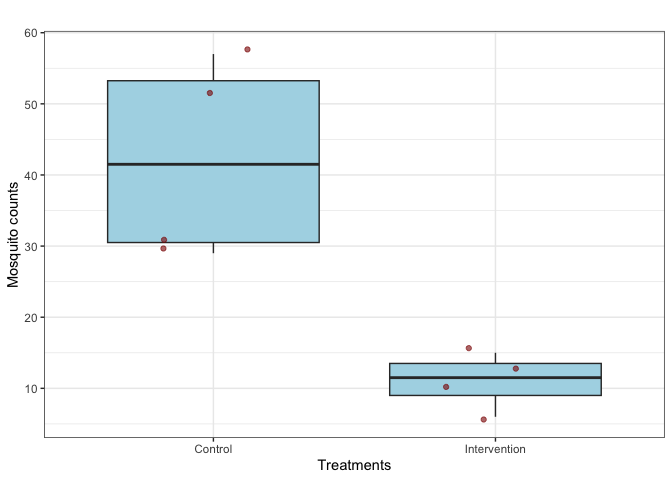
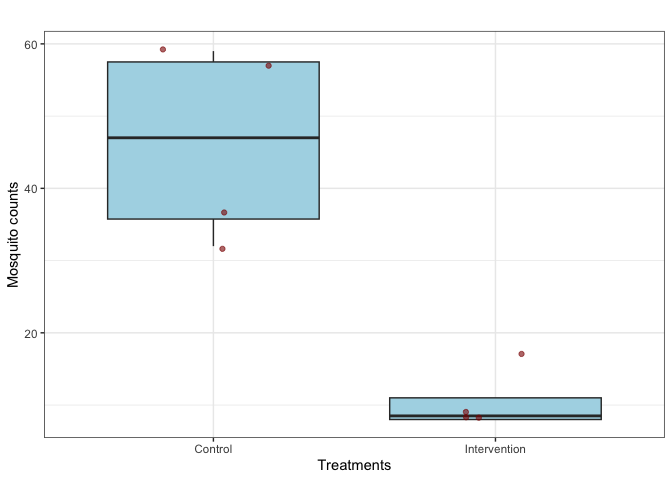
I have updated README file

diff --git a/README.md b/README.md
@@ -31,7 +31,7 @@ from [GitHub](https://github.com/) with:
 # # First, install.packages("devtools") if not already installed in your RStudio.
 
 # -------------------------------
-# Setup: install/load required packages
+# Setup: install or load required packages
 # -------------------------------
 
 # List all CRAN packages your Rmd needs
@@ -54,7 +54,7 @@ if (!requireNamespace("powergene", quietly = TRUE)) {
   devtools::install_github("akipingu/powergene")
 }
 
-# Load 'powergene'
+# Load 'powergene' package
 library(powergene)
 ```
 
@@ -141,14 +141,14 @@ sim.mosquitoes <- sim.mosq.shortsfe.sinint(
 sim.mosquitoes <- sim.mosquitoes[, c(-4,-5,-6)]
 sim.mosquitoes
 #>   replicates intvn chamber mosquito.count.fixed mosquito.count.random
-#> 1          1     0     0-1                   50                    75
-#> 2          2     0     0-2                   41                    35
-#> 3          3     0     0-3                   45                    23
-#> 4          4     0     0-4                   50                    36
-#> 5          1     1     1-1                   10                     9
-#> 6          2     1     1-2                   12                     7
-#> 7          3     1     1-3                   10                     6
-#> 8          4     1     1-4                   10                     7
+#> 1          1     0     0-1                   47                    21
+#> 2          2     0     0-2                   42                   100
+#> 3          3     0     0-3                   61                    15
+#> 4          4     0     0-4                   44                    95
+#> 5          1     1     1-1                    9                     2
+#> 6          2     1     1-2                   13                     6
+#> 7          3     1     1-3                   16                    11
+#> 8          4     1     1-4                    9                    26
 ```
 
 3.  Plot the simulated mosquitoes. This function plots a box plot with
@@ -189,8 +189,8 @@ pvalue <- sim.pval.shortsfe.sinint(
 
 #output the p-values
 pvalue
-#>       pvalue 
-#> 3.626041e-11
+#>      pvalue 
+#> 1.45469e-11
 ```
 
 V. Since power cannot be estimated from a single simulation, there is a
@@ -264,7 +264,7 @@ for (i in seq_along(n.ch.values)) {
 round(power.df,2)
 #>   n.ch.per.trt power ci.lower ci.upper
 #> 1            2  0.93     0.86     0.97
-#> 2            4  1.00     0.96     1.00
+#> 2            4  0.99     0.95     1.00
 #> 3            6  1.00     0.96     1.00
 #> 4            8  1.00     0.96     1.00
 ```
@@ -350,27 +350,27 @@ for (i in seq_len(nrow(results))) {
 #>   |                                                                              |                                                                      |   0%  |                                                                              |=                                                                     |   1%  |                                                                              |=                                                                     |   2%  |                                                                              |==                                                                    |   3%  |                                                                              |===                                                                   |   4%  |                                                                              |====                                                                  |   5%  |                                                                              |====                                                                  |   6%  |                                                                              |=====                                                                 |   7%  |                                                                              |======                                                                |   8%  |                                                                              |======                                                                |   9%  |                                                                              |=======                                                               |  10%  |                                                                              |========                                                              |  11%  |                                                                              |========                                                              |  12%  |                                                                              |=========                                                             |  13%  |                                                                              |==========                                                            |  14%  |                                                                              |==========                                                            |  15%  |                                                                              |===========                                                           |  16%  |                                                                              |============                                                          |  17%  |                                                                              |=============                                                         |  18%  |                                                                              |=============                                                         |  19%  |                                                                              |==============                                                        |  20%  |                                                                              |===============                                                       |  21%  |                                                                              |===============                                                       |  22%  |                                                                              |================                                                      |  23%  |                                                                              |=================                                                     |  24%  |                                                                              |==================                                                    |  25%  |                                                                              |==================                                                    |  26%  |                                                                              |===================                                                   |  27%  |                                                                              |====================                                                  |  28%  |                                                                              |====================                                                  |  29%  |                                                                              |=====================                                                 |  30%  |                                                                              |======================                                                |  31%  |                                                                              |======================                                                |  32%  |                                                                              |=======================                                               |  33%  |                                                                              |========================                                              |  34%  |                                                                              |========================                                              |  35%  |                                                                              |=========================                                             |  36%  |                                                                              |==========================                                            |  37%  |                                                                              |===========================                                           |  38%  |                                                                              |===========================                                           |  39%  |                                                                              |============================                                          |  40%  |                                                                              |=============================                                         |  41%  |                                                                              |=============================                                         |  42%  |                                                                              |==============================                                        |  43%  |                                                                              |===============================                                       |  44%  |                                                                              |================================                                      |  45%  |                                                                              |================================                                      |  46%  |                                                                              |=================================                                     |  47%  |                                                                              |==================================                                    |  48%  |                                                                              |==================================                                    |  49%  |                                                                              |===================================                                   |  50%  |                                                                              |====================================                                  |  51%  |                                                                              |====================================                                  |  52%  |                                                                              |=====================================                                 |  53%  |                                                                              |======================================                                |  54%  |                                                                              |======================================                                |  55%  |                                                                              |=======================================                               |  56%  |                                                                              |========================================                              |  57%  |                                                                              |=========================================                             |  58%  |                                                                              |=========================================                             |  59%  |                                                                              |==========================================                            |  60%  |                                                                              |===========================================                           |  61%  |                                                                              |===========================================                           |  62%  |                                                                              |============================================                          |  63%  |                                                                              |=============================================                         |  64%  |                                                                              |==============================================                        |  65%  |                                                                              |==============================================                        |  66%  |                                                                              |===============================================                       |  67%  |                                                                              |================================================                      |  68%  |                                                                              |================================================                      |  69%  |                                                                              |=================================================                     |  70%  |                                                                              |==================================================                    |  71%  |                                                                              |==================================================                    |  72%  |                                                                              |===================================================                   |  73%  |                                                                              |====================================================                  |  74%  |                                                                              |====================================================                  |  75%  |                                                                              |=====================================================                 |  76%  |                                                                              |======================================================                |  77%  |                                                                              |=======================================================               |  78%  |                                                                              |=======================================================               |  79%  |                                                                              |========================================================              |  80%  |                                                                              |=========================================================             |  81%  |                                                                              |=========================================================             |  82%  |                                                                              |==========================================================            |  83%  |                                                                              |===========================================================           |  84%  |                                                                              |============================================================          |  85%  |                                                                              |============================================================          |  86%  |                                                                              |=============================================================         |  87%  |                                                                              |==============================================================        |  88%  |                                                                              |==============================================================        |  89%  |                                                                              |===============================================================       |  90%  |                                                                              |================================================================      |  91%  |                                                                              |================================================================      |  92%  |                                                                              |=================================================================     |  93%  |                                                                              |==================================================================    |  94%  |                                                                              |==================================================================    |  95%  |                                                                              |===================================================================   |  96%  |                                                                              |====================================================================  |  97%  |                                                                              |===================================================================== |  98%  |                                                                              |===================================================================== |  99%  |                                                                              |======================================================================| 100%
 # print power estimates
 results
-#>    n.ch.per.trt intvn.effect power   ci.lower  ci.upper
-#> 1             2          0.0  0.24 0.16022461 0.3357355
-#> 2             4          0.0  0.07 0.02860529 0.1389197
-#> 3             6          0.0  0.14 0.07870540 0.2237280
-#> 4             8          0.0  0.12 0.06356890 0.2002357
-#> 5             2          0.4  0.58 0.47711920 0.6780145
-#> 6             4          0.4  0.47 0.36940516 0.5724185
-#> 7             6          0.4  0.53 0.42758148 0.6305948
-#> 8             8          0.4  0.68 0.57923314 0.7697801
-#> 9             2          0.5  0.55 0.44728019 0.6496798
-#> 10            4          0.5  0.68 0.57923314 0.7697801
-#> 11            6          0.5  0.71 0.61073404 0.7964258
-#> 12            8          0.5  0.90 0.82377740 0.9509953
-#> 13            2          0.6  0.73 0.63198373 0.8139336
-#> 14            4          0.6  0.81 0.71930204 0.8815568
-#> 15            6          0.6  0.95 0.88716509 0.9835681
-#> 16            8          0.6  0.97 0.91482395 0.9937700
-#> 17            2          0.8  0.95 0.88716509 0.9835681
-#> 18            4          0.8  1.00 0.96378331 1.0000000
-#> 19            6          0.8  1.00 0.96378331 1.0000000
-#> 20            8          0.8  1.00 0.96378331 1.0000000
+#>    n.ch.per.trt intvn.effect power   ci.lower   ci.upper
+#> 1             2          0.0  0.23 0.15173161 0.32485873
+#> 2             4          0.0  0.22 0.14330358 0.31391965
+#> 3             6          0.0  0.14 0.07870540 0.22372798
+#> 4             8          0.0  0.04 0.01100449 0.09925716
+#> 5             2          0.4  0.41 0.31261998 0.51285580
+#> 6             4          0.4  0.62 0.51746069 0.71523252
+#> 7             6          0.4  0.58 0.47711920 0.67801446
+#> 8             8          0.4  0.62 0.51746069 0.71523252
+#> 9             2          0.5  0.66 0.55846673 0.75177650
+#> 10            4          0.5  0.64 0.53787811 0.73359158
+#> 11            6          0.5  0.73 0.63198373 0.81393358
+#> 12            8          0.5  0.89 0.81169887 0.94379298
+#> 13            2          0.6  0.77 0.67514127 0.84826839
+#> 14            4          0.6  0.87 0.78795932 0.92892695
+#> 15            6          0.6  0.94 0.87397007 0.97766511
+#> 16            8          0.6  0.97 0.91482395 0.99377003
+#> 17            2          0.8  0.97 0.91482395 0.99377003
+#> 18            4          0.8  0.99 0.94554061 0.99974685
+#> 19            6          0.8  1.00 0.96378331 1.00000000
+#> 20            8          0.8  1.00 0.96378331 1.00000000
 ```
 
 9.  Now plot the resulting power estimates vs. number of chambers per
